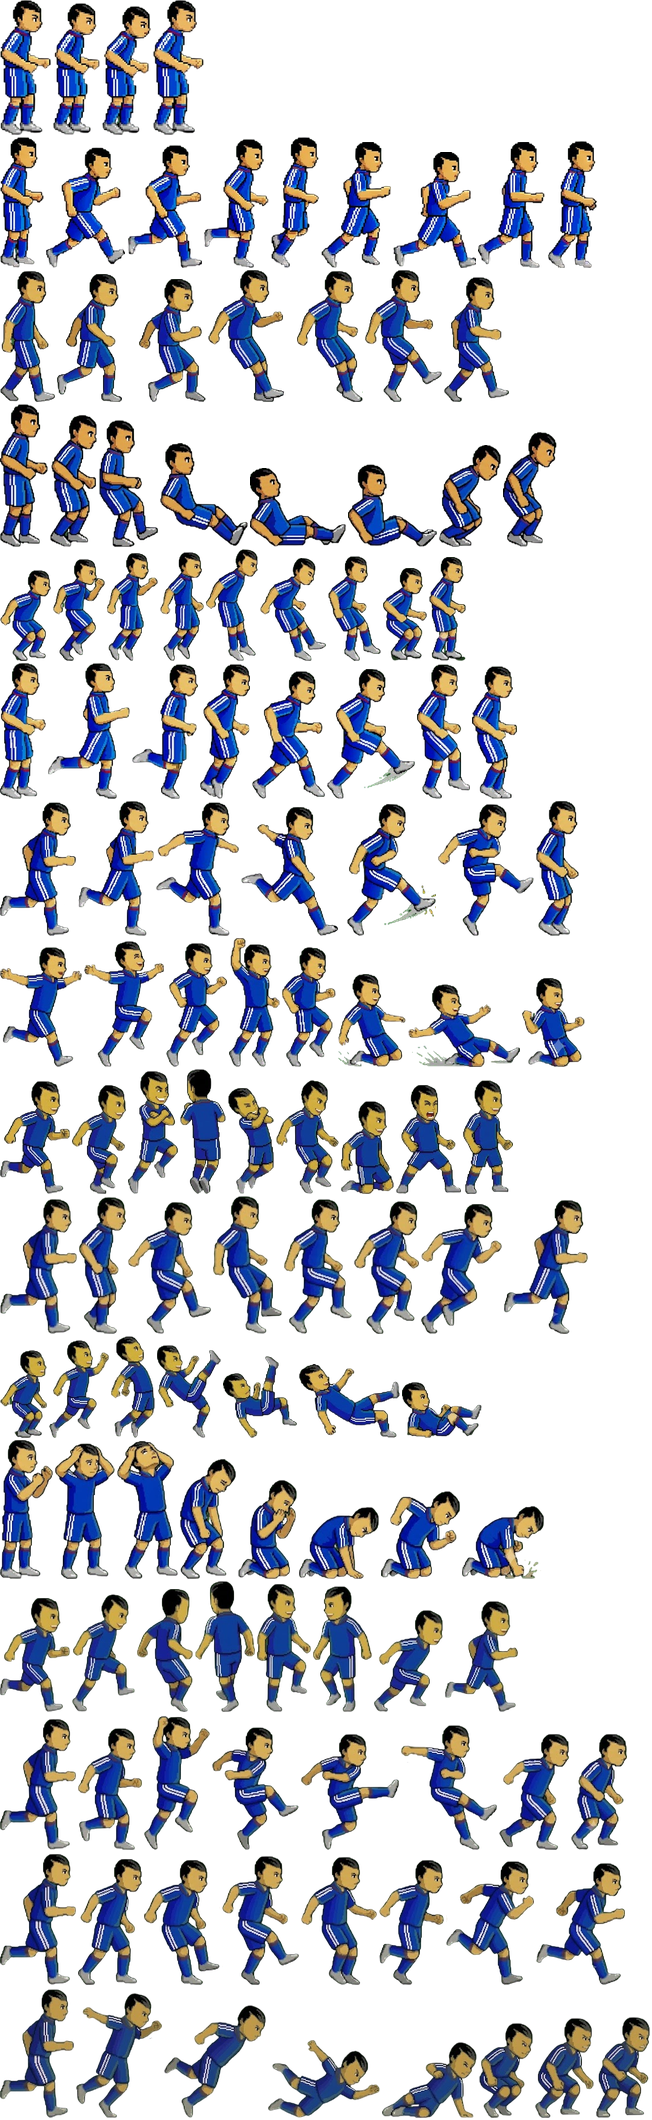
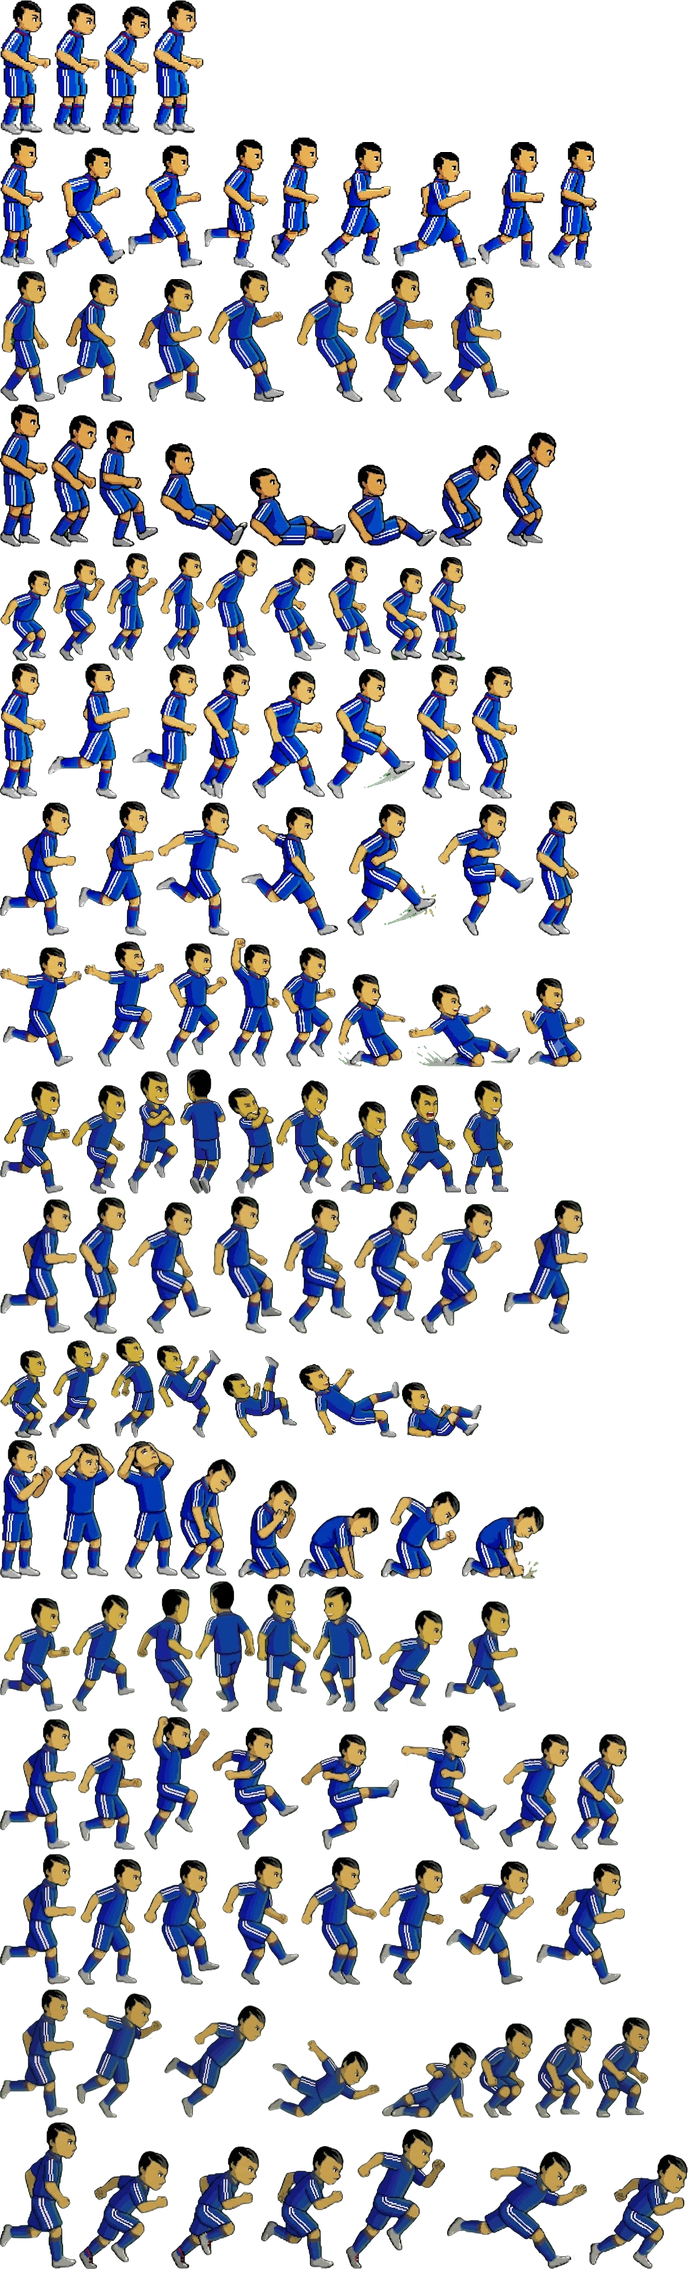
update

diff --git a/js/game.js b/js/game.js
@@ -327,7 +327,7 @@ function sceneVolley(c){
 function sceneLob(c){
   const A=rp(c.atk,RW.aFin,"toc"),D=rp(c.def,RW.dNear,"dau",null,A),y0=laneY(A);
   add(c,"A",A,c.atk,22,y0);add(c,"D",D,c.def,34,clamp(y0+(rnd()-.5)*6,10,58));add(c,"G",c.G,c.def,51,34);
-  c.S.push({dur:1.3,t:{A:[30,y0],D:[34,c.ids.D.y],G:[50.5,34+(y0-34)*.15]},ball:{carry:"A"},label:{A:`Tốc độ: ${A.toc}`},txt:`${A.n} dẫn bóng đột phá vòng vây`});
+  c.S.push({dur:1.3,t:{A:[30,y0],D:[34,c.ids.D.y],G:[50.5,34+(y0-34)*.15]},ball:{carry:"A"},anim:{A:"bpha"},label:{A:`Tốc độ: ${A.toc}`},txt:`${A.n} dẫn bóng đột phá vòng vây`});
   const ok=lqStep(c,{title:"Cơ Hội Đá Bổng",att:eff(A,"toc"),def:eff(D,"dau")*defBoost(c.def,"dau"),L:[ent(A,c.atk,"toc")],R:[ent(D,c.def,"dau")],
     detail:`Tốc độ ${A.toc} vs Đ.Đầu ${D.dau}`,t:{A:[32.5,y0],D:[34,y0]},label:{A:`Tốc độ: ${A.toc}`,D:`Đ.Đầu: ${D.dau}`},txt:`${A.n} tăng tốc lao về phía ${D.n}`});
   if(!ok)return lostBall(c,D,"A",`${D.n} xoạc chân ra cắt đường bóng`);
@@ -339,8 +339,9 @@ function sceneSolo(c){
   const A=rp(c.atk,RW.aFin,"bpha"),D=rp(c.def,RW.dFar,"toc",null,A),y0=laneY(A);
   add(c,"A",A,c.atk,22,y0);add(c,"D",D,c.def,33,clamp(y0+(rnd()<.5?6:-6),10,58));add(c,"G",c.G,c.def,51,34);
   c.S.push({dur:1.3,t:{A:[29,y0],D:[33,c.ids.D.y],G:[50.5,34+(y0-34)*.15]},ball:{carry:"A"},label:{A:`Bứt phá: ${A.bpha}`},txt:`[Solo] ${A.n} nhận bóng tuyệt đẹp từ đồng đội rồi dẫn bóng tiến về phía trước`});
+  c.S.push({dur:1.1,t:{A:[33,y0],D:[34.5,y0+(c.ids.D.y<y0?-1.5:1.5)]},ball:{carry:"A"},anim:{A:"bpha"},label:{A:`Bứt phá: ${A.bpha}`},txt:`${A.n} dẫn bóng bứt phá vòng vây`});
   const ok=lqStep(c,{title:"Cơ Hội Solo",att:eff(A,"bpha"),def:eff(D,"toc")*defBoost(c.def,"toc"),L:[ent(A,c.atk,"bpha")],R:[ent(D,c.def,"toc")],
-    detail:`Bứt phá ${A.bpha} vs Tốc độ ${D.toc}`,t:{A:[34,y0],D:[34.5,y0+(c.ids.D.y<y0?-1.5:1.5)]},label:{A:`Bứt phá: ${A.bpha}`,D:`Tốc độ: ${D.toc}`},txt:`${A.n} dẫn bóng đột phá vòng vây`});
+    detail:`Bứt phá ${A.bpha} vs Tốc độ ${D.toc}`,t:{A:[34,y0],D:[34.5,y0+(c.ids.D.y<y0?-1.5:1.5)]},label:{A:`Bứt phá: ${A.bpha}`,D:`Tốc độ: ${D.toc}`},txt:`${D.n} lao tới đuổi theo ${A.n}`});
   if(!ok)return lostBall(c,D,"A",`${D.n} đuổi kịp và lấy bóng trong chân ${A.n}`);
   const sp=[42+rnd()*3,clamp(y0+(34-y0)*.6,14,54)];c.S.push({dur:1.2,t:{A:sp,D:[sp[0]-5,sp[1]+(rnd()<.5?3:-3)]},ball:{carry:"A"},txt:`${A.n} dẫn bóng đột phá sâu vào khung thành, vượt qua rồi!`});
   return finishShot(c,{role:"A",from:sp,stat:"sut",title:"Cơ Hội Solo"});
@@ -381,7 +382,7 @@ function sceneSoloVolley(c){
   const A=rp(c.atk,{HVC:2.5,TV:2.5,TVC:2,HV:1.2,"TĐ":.8},"cdai"),B=rp(c.atk,RW.aFin,"toc",A),D=rp(c.def,RW.dFar,"bpha",null,B),y0=laneY(A);
   add(c,"A",A,c.atk,14,y0);add(c,"B",B,c.atk,18,clamp(y0+(y0<34?-14:14),8,60));add(c,"D",D,c.def,36,clamp(c.ids.B.y+(rnd()-.5)*6,8,60));add(c,"G",c.G,c.def,51,34);
   c.S.push({dur:1.3,t:{A:[20,y0],B:[24,c.ids.B.y],D:[34,c.ids.D.y],G:[50.5,34+(c.ids.B.y-34)*.15]},ball:{carry:"A"},label:{A:`Ch.dài: ${A.cdai}`,B:`Tốc độ: ${B.toc}`,D:`Bứt phá: ${D.bpha}`},txt:`${A.n} nhận bóng tuyệt đẹp từ đồng đội rồi dẫn bóng tiến về phía trước`});
-  const recv=[33,c.ids.B.y];c.S.push({dur:0.9,t:{B:recv,D:[35,c.ids.B.y+1.5]},ball:{fly:null,to:recv,h:3},kicker:"A",txt:`${A.n} chuyển bóng lên phía trên cho ${B.n}`});
+  const recv=[33,c.ids.B.y];c.S.push({dur:0.9,t:{B:recv,D:[35,c.ids.B.y+1.5]},ball:{fly:null,to:recv,h:3},kicker:"A",anim:{B:"bpha"},txt:`${A.n} chuyển bóng lên phía trên cho ${B.n}`});
   const ok=lqStep(c,{title:"Cơ Hội Solo",att:eff(B,"toc")+0.5*eff(A,"cdai"),def:eff(D,"bpha")*defBoost(c.def,"bpha"),L:[ent(A,c.atk,"cdai"),ent(B,c.atk,"toc")],R:[ent(D,c.def,"bpha")],holder:"B",
     detail:`Tốc độ ${B.toc} + 50%·Ch.dài ${A.cdai} vs Bứt phá ${D.bpha}`,t:{B:[36,recv[1]],D:[36.5,recv[1]+1]},label:{B:`Tốc độ: ${B.toc}`,D:`Bứt phá: ${D.bpha}`},txt:`${B.n} và ${D.n} đua tốc độ`});
   if(!ok)return lostBall(c,D,"B",`${D.n} bứt tốc chặn trước ${B.n}`);
@@ -514,7 +515,7 @@ function limb(g,x,y,ang,l1,l2,bend,w,c1,c2,c3){
 }
 function drawSprite(g,a,now,x,y,sc){
   const p=a.p,h=hashN(p.n),gk=roleOf(p)==="TM";
-  const shirt=gk?"#f2c94c":a.team.color,shorts=gk?"#1d1d1d":"#f4f4f4",sock=gk?"#1d1d1d":a.team.color;
+  const shirt=gk?"#f2c94c":kitColor(a.team),shorts=gk?"#1d1d1d":"#f4f4f4",sock=gk?"#1d1d1d":kitColor(a.team);
   const skin=SKIN[h%4],hair=HAIR[(h>>3)%5],num=(h%23)+1;
   const f=a.face||1,an=a.anim,t=a.at||0;
   g.beginPath();g.ellipse(x,y+1,16*sc,5*sc,0,0,7);g.fillStyle="rgba(0,0,0,.28)";g.fill();
@@ -551,14 +552,15 @@ function drawSprite(g,a,now,x,y,sc){
 const SPR={};
 for(const [k,src] of Object.entries(SPRITE_SRC)){const img=new Image();SPR[k]={img,ready:false,tint:{}};img.onload=()=>{SPR[k].ready=true;if(window.mgrRender)mgrRender()};img.src=src}
 const charKey=p=>p.sprite||(roleOf(p)==="TM"?"gk":"std");
-const FPS={nga:9,lua:10,volley:16,stepover:13,roulette:13,siu:7,run:0,drib:0,pass:16,shot:16,fk:15,long:16,pen:15,slide:14,head:16,bike:13,cele:6,regret:6,catch:14,dive:14};
+const FPS={bpha:8,nga:9,lua:10,volley:16,stepover:13,roulette:13,siu:7,run:0,drib:0,pass:16,shot:16,fk:15,long:16,pen:15,slide:14,head:16,bike:13,cele:6,regret:6,catch:14,dive:14};
 const KICK_FALLBACK={volley:["volley","shot","fk"],pass:["pass","fk","shot"],shot:["shot","fk"],long:["long","shot"],fk:["fk","shot"],pen:["fk","shot"]};
 const CONTACT={volley:.56,pass:.55,shot:.6,long:.55,fk:.65};
 function hasAnim(key,an){return !!SPRITE_META[key].anims[an]}
 function kickAnim(key,set){for(const a of (KICK_FALLBACK[set]||["shot"]))if(hasAnim(key,a))return a;return null}
 function kickInfo(a){const key=charKey(a.p),an=kickAnim(key,a.kickSet||"shot");if(!an)return{dur:0.4,contact:0};
   const n=SPRITE_META[key].anims[an].length,f=FPS[an]||15;return{dur:n/f,contact:n/f*(CONTACT[an]||.6)}}
-// đổi màu áo xanh của sprite thường sang màu đội
+// màu áo trong trận: đội nhà ĐỎ, đối thủ XANH (màu gốc của sprite, không đổi). Thủ môn giữ màu sprite.
+const kitColor=t=>(typeof T!=="undefined"&&T&&t===T.home)?"#e8372c":"#2f7ff0";
 function hexRgb(h){const n=parseInt(h.slice(1),16);return[n>>16,n>>8&255,n&255]}
 function tinted(key,color){
   const S=SPR[key];if(key!=="std")return S.img;
@@ -585,7 +587,7 @@ function pickFrame(a,key,now){
   if(an==="jump"){[r.an,r.i]=A.head?once("head"):["idle",0];r.dy=-0.55*Math.sin(clamp(t/0.6,0,1)*Math.PI);return r}
   if(an==="bike"&&A.bike){[r.an,r.i]=once("bike");r.dy=-0.5*Math.sin(clamp(t/0.7,0,1)*Math.PI);return r}
   if(an==="regret"&&A.regret){[r.an,r.i]=once("regret");return r}
-  if((an==="stepover"||an==="roulette"||an==="lua")&&A[an]){[r.an,r.i]=once(an);return r}
+  if((an==="stepover"||an==="roulette"||an==="lua"||an==="bpha")&&A[an]){[r.an,r.i]=once(an);return r}
   if(an==="celebrate"){const sv=hasSkill(a.p,"siu")&&A.siu?"siu":"cele";if(A[sv]){[r.an,r.i]=once(sv);return r}r.an="idle";r.i=0;r.dy=-0.35*Math.abs(Math.sin(t*7));return r}
   if(a.moving&&!A.run){r.an="idle";r.i=Math.floor((a.phase||0)*1.2)%A.idle.length;r.dy=-0.04*Math.abs(Math.sin((a.phase||0)*1.6));return r}
   if(a.moving){const set=(A.drib&&scene&&scene.holder===a.role)?"drib":"run";const n=A[set].length;r.an=set;r.i=Math.floor((a.phase||0)*n/5.7)%n;return r}
@@ -598,7 +600,7 @@ function drawChar(g,a,now,x,y,px,noShadow){
   if(!noShadow){g.beginPath();g.ellipse(x,y+1,px*0.3,px*0.09,0,0,7);g.fillStyle="rgba(0,0,0,.3)";g.fill()}
   const r=pickFrame(a,key,now),fr=SPRITE_META[key].anims[r.an][r.i],sc=px/SPRITE_META[key].ref,f=a.face||1;
   g.save();g.translate(x,y+r.dy*px);if(r.rot)g.rotate(r.rot*f);g.scale(f*sc,sc);
-  g.drawImage(tinted(key,a.team.color),fr[0],fr[1],fr[2],fr[3],-fr[2]/2,-fr[3],fr[2],fr[3]);g.restore();
+  g.drawImage(tinted(key,kitColor(a.team)),fr[0],fr[1],fr[2],fr[3],-fr[2]/2,-fr[3],fr[2],fr[3]);g.restore();
 }
 
 function drawPlayer(a,now){
@@ -759,7 +761,7 @@ function fastSim(){
   M.busy=false;finish();renderSquad();
 }
 const fmt=n=>n.toLocaleString("vi-VN");
-function badge(svg,team){const c=team.color,ini=team.name.split(" ").map(w=>w[0]).join("").slice(0,3);
+function badge(svg,team){const c=kitColor(team),ini=team.name.split(" ").map(w=>w[0]).join("").slice(0,3);
   svg.innerHTML=`<path d="M20 2 L36 7 V20 C36 30 28 36 20 38 C12 36 4 30 4 20 V7 Z" fill="${c}" stroke="#fff" stroke-width="2"/><path d="M20 6 L32 10 V20 C32 27 26 32 20 34 Z" fill="rgba(0,0,0,.2)"/><text x="20" y="25" text-anchor="middle" font-family="Saira Condensed,Impact,sans-serif" font-weight="800" font-size="12" fill="#fff">${ini}</text>`}
 function render(){if(window.MODE==="lobby"&&window.lobbyRender)setTimeout(lobbyRender,0);
   document.getElementById("sc").textContent=`${M.score[0]}:${M.score[1]}`;

diff --git a/js/sprites.js b/js/sprites.js
@@ -1,5 +1,5 @@
 /* Sprite atlas: mỗi khung hình = [x, y, rộng, cao] trong ảnh atlas. Tạo bằng tools/build_atlas.py */
-const SPRITE_META={"std":{"ref":130,"anims":{"idle":[[0,0,51,135],[53,3,47,132],[102,6,49,129],[153,0,51,135]],"run":[[0,137,44,131],[46,145,79,123],[127,145,75,123],[204,139,65,129],[271,137,48,131],[321,142,70,126],[393,152,83,116],[478,142,67,126],[547,141,51,127]],"pass":[[0,271,55,131],[57,274,80,128],[139,279,67,123],[208,270,87,132],[297,271,66,131],[365,270,77,132],[444,277,65,125]],"slide":[[0,404,48,143],[50,415,47,132],[99,420,59,127],[160,443,88,104],[250,468,96,79],[348,464,89,83],[439,445,62,102],[503,432,54,115]],"head":[[0,570,51,91],[53,559,52,102],[107,553,51,108],[160,552,44,109],[206,549,52,112],[260,558,66,103],[328,556,53,105],[383,568,44,93],[429,557,37,104]],"shot":[[0,663,46,136],[48,663,82,136],[132,664,66,135],[200,664,50,135],[252,671,73,128],[327,669,88,130],[417,664,53,135],[472,666,45,133]],"long":[[0,802,76,134],[78,801,76,135],[156,802,83,134],[241,807,104,129],[347,804,89,132],[438,804,96,132],[536,801,43,135]],"cele":[[0,947,82,120],[84,941,80,126],[166,943,61,124],[229,938,51,129],[282,947,54,120],[338,974,68,93],[408,984,112,83],[522,978,63,89]],"siu":[[0,1081,70,113],[72,1085,54,109],[128,1071,50,123],[180,1069,46,125],[228,1088,46,106],[276,1080,63,114],[341,1101,53,93],[396,1085,65,109],[463,1080,50,114]],"stepover":[[0,1199,77,135],[79,1197,47,137],[128,1202,83,132],[213,1196,69,138],[284,1199,68,135],[354,1201,65,133],[421,1204,81,130],[504,1200,84,134]],"bike":[[0,1350,47,88],[49,1340,60,98],[111,1336,44,102],[157,1345,64,93],[223,1356,74,82],[299,1364,101,74],[402,1382,80,56]],"regret":[[0,1440,53,139],[55,1443,60,136],[117,1441,61,138],[180,1459,56,120],[238,1480,59,99],[299,1507,80,72],[381,1491,79,88],[462,1506,82,73]],"roulette":[[0,1598,70,114],[72,1594,63,118],[137,1589,56,123],[195,1581,60,131],[257,1584,54,128],[313,1586,59,126],[374,1610,69,102],[445,1601,73,111]],"volley":[[0,1719,76,131],[78,1728,64,122],[144,1716,66,134],[212,1727,87,123],[301,1734,98,116],[401,1725,96,125],[499,1734,70,116],[571,1734,56,116]],"lua":[[0,1854,76,131],[78,1859,64,126],[144,1860,76,125],[222,1856,77,129],[301,1857,76,128],[379,1860,65,125],[446,1861,88,124],[536,1863,89,122]],"nga":[[0,1989,74,129],[76,1993,86,125],[164,2005,102,113],[268,2040,112,78],[382,2042,95,76],[479,2023,54,95],[535,2018,59,100],[596,2017,54,101]]}},"gk":{"ref":130,"anims":{"idle":[[0,2,86,129],[88,5,83,126],[173,12,86,119],[261,0,84,131]],"catch":[[0,148,82,114],[84,133,98,129],[184,134,116,128],[302,184,131,78],[435,179,121,83],[558,176,85,86],[645,191,88,71]],"dive":[[0,271,88,115],[90,264,94,122],[186,271,118,115],[306,276,119,110],[427,310,85,76],[514,326,94,60],[610,316,77,70]]}}};
+const SPRITE_META={"std":{"ref":130,"anims":{"idle":[[0,0,51,135],[53,3,47,132],[102,6,49,129],[153,0,51,135]],"run":[[0,137,44,131],[46,145,79,123],[127,145,75,123],[204,139,65,129],[271,137,48,131],[321,142,70,126],[393,152,83,116],[478,142,67,126],[547,141,51,127]],"pass":[[0,271,55,131],[57,274,80,128],[139,279,67,123],[208,270,87,132],[297,271,66,131],[365,270,77,132],[444,277,65,125]],"slide":[[0,404,48,143],[50,415,47,132],[99,420,59,127],[160,443,88,104],[250,468,96,79],[348,464,89,83],[439,445,62,102],[503,432,54,115]],"head":[[0,570,51,91],[53,559,52,102],[107,553,51,108],[160,552,44,109],[206,549,52,112],[260,558,66,103],[328,556,53,105],[383,568,44,93],[429,557,37,104]],"shot":[[0,663,46,136],[48,663,82,136],[132,664,66,135],[200,664,50,135],[252,671,73,128],[327,669,88,130],[417,664,53,135],[472,666,45,133]],"long":[[0,802,76,134],[78,801,76,135],[156,802,83,134],[241,807,104,129],[347,804,89,132],[438,804,96,132],[536,801,43,135]],"cele":[[0,947,82,120],[84,941,80,126],[166,943,61,124],[229,938,51,129],[282,947,54,120],[338,974,68,93],[408,984,112,83],[522,978,63,89]],"siu":[[0,1081,70,113],[72,1085,54,109],[128,1071,50,123],[180,1069,46,125],[228,1088,46,106],[276,1080,63,114],[341,1101,53,93],[396,1085,65,109],[463,1080,50,114]],"stepover":[[0,1199,77,135],[79,1197,47,137],[128,1202,83,132],[213,1196,69,138],[284,1199,68,135],[354,1201,65,133],[421,1204,81,130],[504,1200,84,134]],"bike":[[0,1350,47,88],[49,1340,60,98],[111,1336,44,102],[157,1345,64,93],[223,1356,74,82],[299,1364,101,74],[402,1382,80,56]],"regret":[[0,1440,53,139],[55,1443,60,136],[117,1441,61,138],[180,1459,56,120],[238,1480,59,99],[299,1507,80,72],[381,1491,79,88],[462,1506,82,73]],"roulette":[[0,1598,70,114],[72,1594,63,118],[137,1589,56,123],[195,1581,60,131],[257,1584,54,128],[313,1586,59,126],[374,1610,69,102],[445,1601,73,111]],"volley":[[0,1719,76,131],[78,1728,64,122],[144,1716,66,134],[212,1727,87,123],[301,1734,98,116],[401,1725,96,125],[499,1734,70,116],[571,1734,56,116]],"lua":[[0,1854,76,131],[78,1859,64,126],[144,1860,76,125],[222,1856,77,129],[301,1857,76,128],[379,1860,65,125],[446,1861,88,124],[536,1863,89,122]],"nga":[[0,1989,74,129],[76,1993,86,125],[164,2005,102,113],[268,2040,112,78],[382,2042,95,76],[479,2023,54,95],[535,2018,59,100],[596,2017,54,101]],"bpha":[[0,2122,77,147],[79,2151,90,118],[171,2146,88,123],[261,2146,83,123],[346,2129,99,140],[447,2151,140,118],[589,2154,99,115]]}},"gk":{"ref":130,"anims":{"idle":[[0,2,86,129],[88,5,83,126],[173,12,86,119],[261,0,84,131]],"catch":[[0,148,82,114],[84,133,98,129],[184,134,116,128],[302,184,131,78],[435,179,121,83],[558,176,85,86],[645,191,88,71]],"dive":[[0,271,88,115],[90,264,94,122],[186,271,118,115],[306,276,119,110],[427,310,85,76],[514,326,94,60],[610,316,77,70]]}}};
 const SPRITE_SRC={"std":"assets/atlas_std.png","gk":"assets/atlas_gk.png"};
 const TROLY_SRC="assets/tro-ly.webp";
 const NPC_IMG={"taichinh": "assets/npc-taichinh.webp", "chienthuat": "assets/npc-chienthuat.webp", "hlv": "assets/npc-hlv.webp", "moigioi": "assets/npc-moigioi.webp", "trolý": "assets/npc-troly.webp"};
